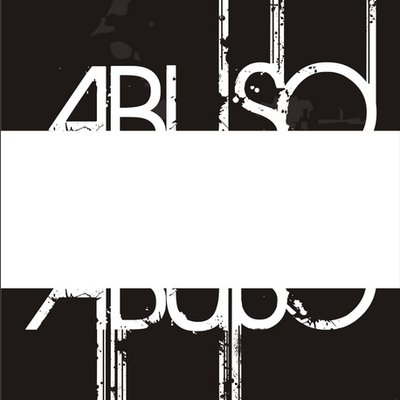
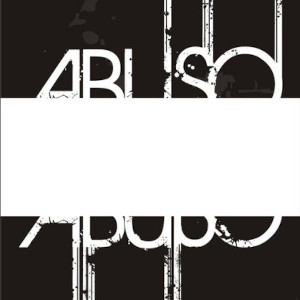
4 cards per row; resized images

diff --git a/portifolio/src/pages/index.js b/portifolio/src/pages/index.js
@@ -27,11 +27,11 @@ const IndexPage = () => (
         <p>Focado em misturar arte e código para criar experiências incríveis.
     Já produzi conteúdo audiovisual, jogos e softwares. Atualmente sou responsável pela experiência do usuário de softwares para o varejo.</p>
         <div>
-          <button className="btn font-bold py-2 px-4 rounded text-xs flex flex-row font-sans"
+          {/* <button className="btn font-bold py-2 px-4 rounded text-xs flex flex-row font-sans"
             style={{backgroundColor: theme.colors.primary, color: "white"}}
           >
             Explore meu trabalho
-          </button>
+          </button> */}
         </div>
       </div>
       <div>
@@ -43,12 +43,13 @@ const IndexPage = () => (
       </div>
     </div>
     <div className="mt-24 w-full">
-      <h2 className="text-center">Trabalhos</h2>
-      <div className="flex flex-row space-x-4">
+      <h2 className="text-center mb-16">Trabalhos</h2>
+      <div className="flex flex-row justify-between mb-16">
         <ProjectCard
           src={grandshooter}
           name="Grand Shooter"
           description="Jogo de tiro em primeira pessoa para dispositivos móveis"
+          link="https://grumpypandastudios.itch.io/grand-shooter"
         />
         <ProjectCard
           src={musikinesia}
@@ -68,37 +69,49 @@ const IndexPage = () => (
       </div>
     </div>
     <div className="mt-24 w-full">
-      <h2 className="text-center">Curtas</h2>
-      <div className="flex flex-row space-x-4">
+      <h2 className="text-center mb-16">Curtas</h2>
+      <div className="flex flex-row justify-between mb-16">
         <ProjectCard
           src={abreojogo}
           name="Abre o jogo"
           description="Toni Ferreira, técnico da seleção brasileira, resolve procurar ajuda de um psicólogo para lidar com suas angústias e frustrações."
+          link="https://www.dailymotion.com/video/k2mCjUeLsWi4D49wtxH"
         />
         <ProjectCard
           src={thai}
           name="Thai"
           description="Thai tem 15 anos e está começando a entender quem é. Em uma festa com sua irmão, tem um encontro que vai mudar sua perspectiva de si e do mundo."
+          link="https://www.youtube.com/watch?v=L_ZR-1CE9q0"
         />
         <ProjectCard
           src={izabel}
           name="Izabel"
           description="Documentário que faz um passeio pela Vila Izabel em São Carlos, a fim de conhecer seus antigos moradores e compreender como suas histórias de vida se relacionam com a história do bairro fundado por ex-escravos."
+          link="https://www.youtube.com/watch?v=Lx-fuBsdeoI"
         />
         <ProjectCard
           src={abuso}
           name="Abuso"
           description="O curta incita a reflexão sobre as consequências do poder da mídia quanto à disseminação de informações."
+          link="https://www.youtube.com/watch?v=DCweK4IpPIs"
         />
+      </div>
+      <div className="flex flex-row justify-between mb-16">
         <ProjectCard
           src={terraavista}
           name="Terra à Vista"
           description="Trailer para divulgação do jogo digital, que conta a história das famílias Rapposo e Ferroni na disputa pela herança deixada por um parente em comum."
+          link="https://www.youtube.com/watch?v=1dU3pxnJg8o"
         />
         <ProjectCard
           src={houndmouth}
           name="Houndmouth - Casino"
           description="Clipe produzido para um concurso da banda Houndmouth."
+          link="https://v1.genero.com///watch-video/37074"
+        />
+        <ProjectCard
+        />
+        <ProjectCard
         />
       </div>
     </div>

diff --git a/portifolio/src/components/project-card.jsx b/portifolio/src/components/project-card.jsx
@@ -1,12 +1,14 @@
 import React from "react";
 
-export const ProjectCard = ({src, name, description}) => {
+export const ProjectCard = ({src, name, description, link}) => {
+  const cursorStyle = link ? "pointer" : "unset";
+
   return (
-    <div style={{width:"300px"}}>
+    <div style={{width:"300px", cursor: cursorStyle}} onClick={() => link ? window.open(link, "_blank") : console.log("not found")}>
       <img
         src={src}
         alt={name}
-        className="rounded-4xl w-56 h-56 object-cover"
+        className="rounded-4xl object-cover"
       />
       <h3 className="mb-md">{name}</h3>
       <p className="text-xs">{description}</p>
